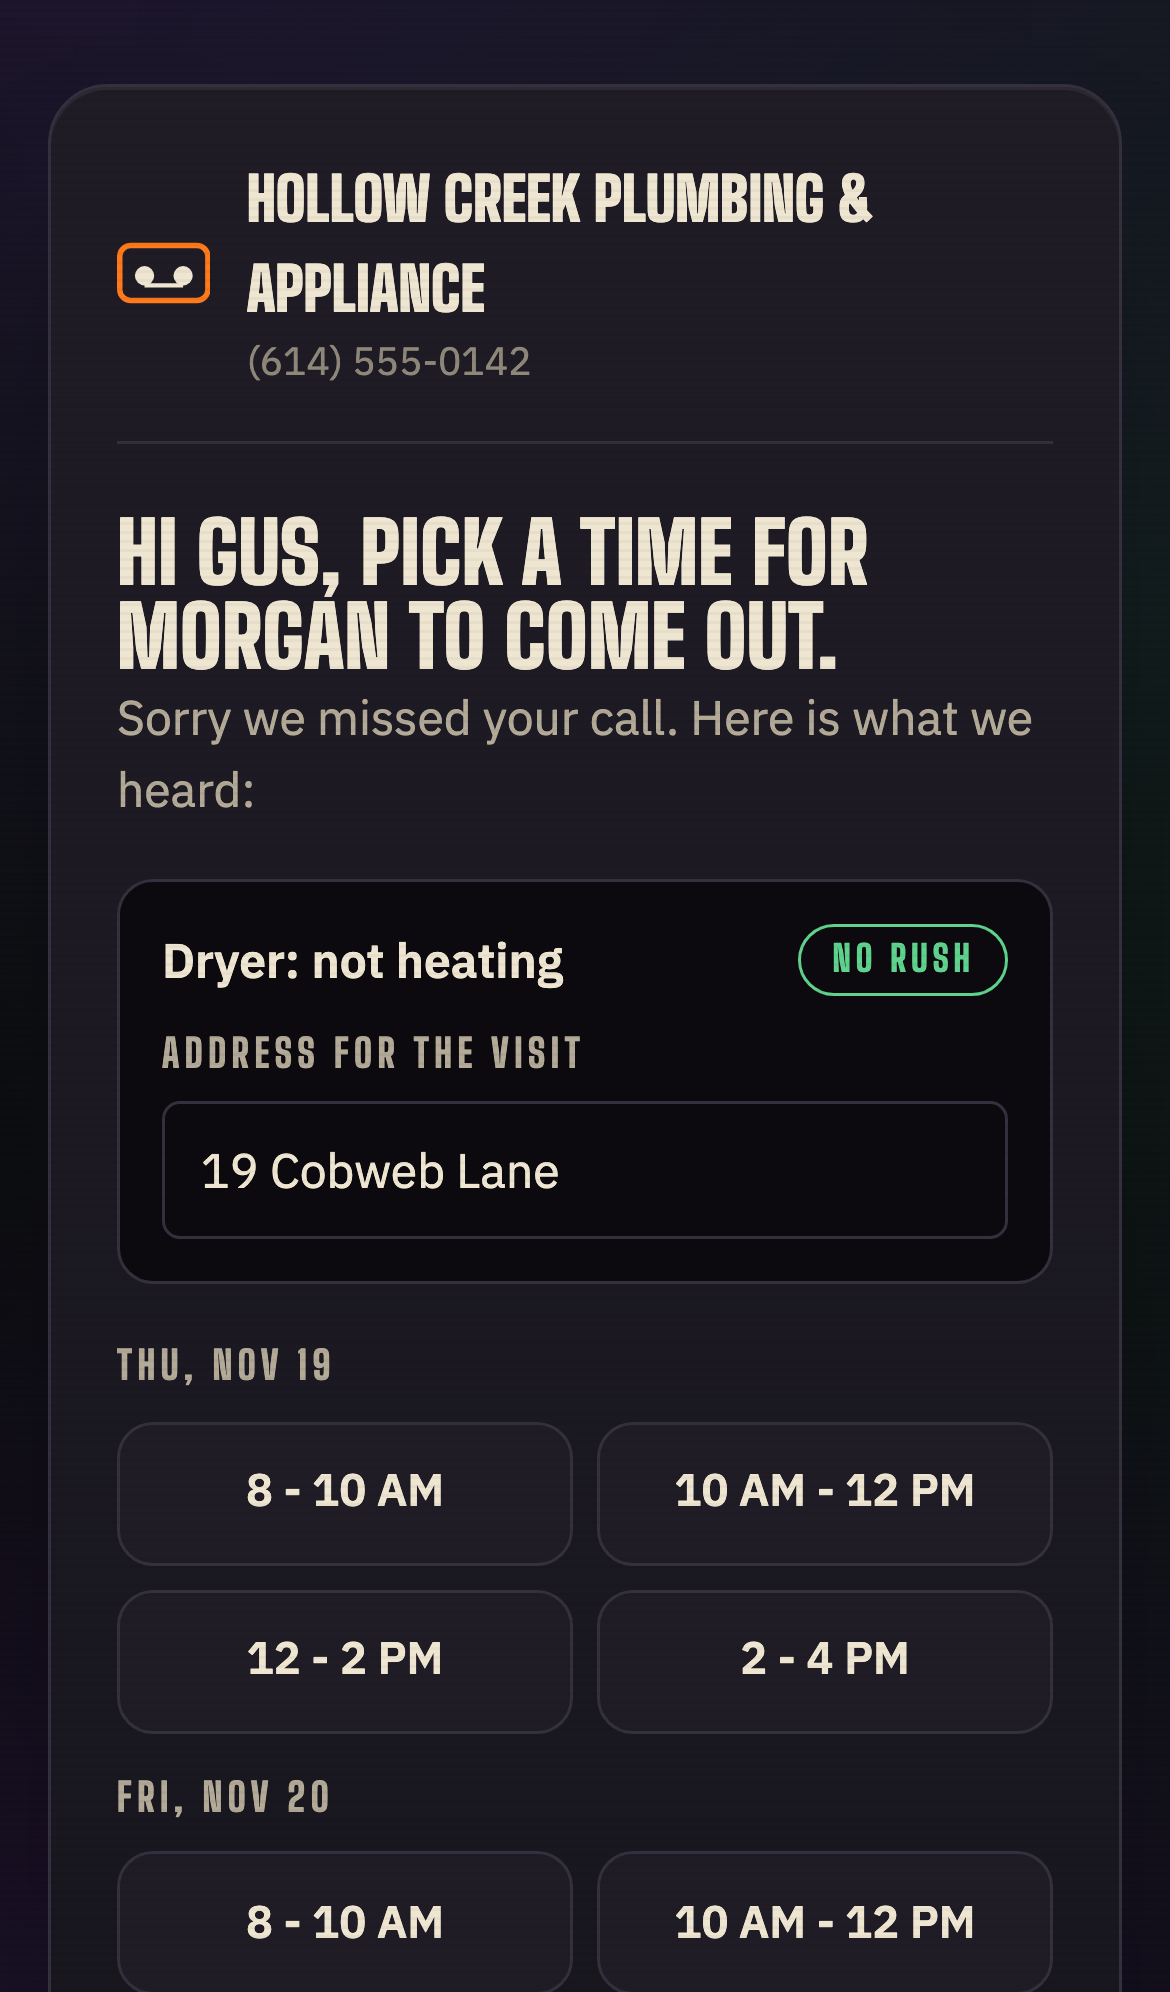
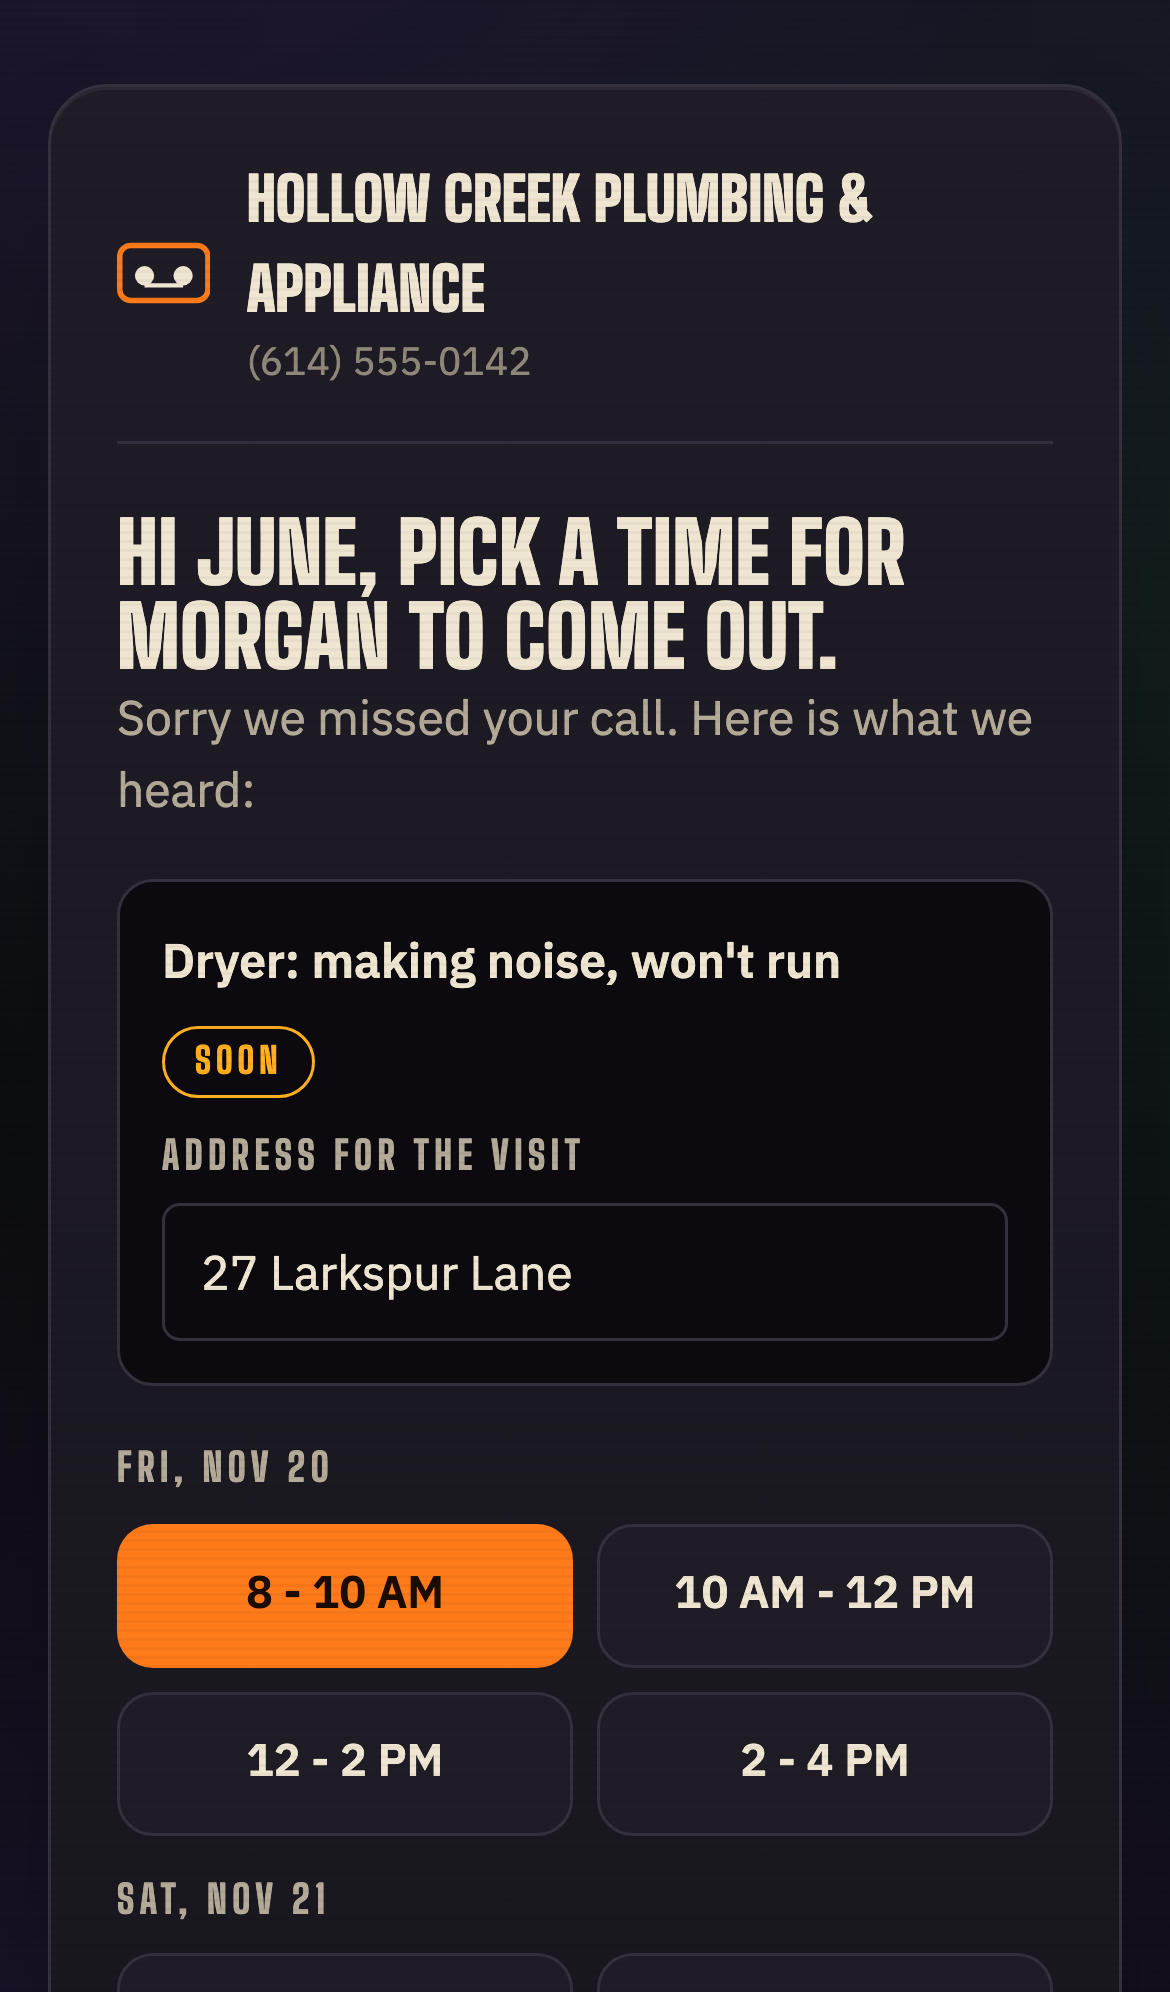
Rebuild the demo GIF and screens on the current build
The GIF now opens on the full tape, then runs the whole story with
captions: texted back in 3 seconds, June books, "$15" held at the
usual $50 with the carbon slips, sent, paid, and five hang-ups raised.
It is 1200 px wide, 23 seconds and 4.3 MB.

All eight screens are retaken with a public base URL, so texts and
links show afterbeep.example.com instead of a local address.

diff --git a/docs/judging.md b/docs/judging.md
@@ -63,5 +63,5 @@ Where to find the proof for each submission check and each judging criterion. Ev
 | Claim | Proof |
 |---|---|
 | A one-press guided demo: "Demo the whole story" runs a missed call through booking, a spoken invoice, payment and raising the dead | Landing page and machine header |
-| A 15-second GIF of the whole flow | [docs/demo.gif](demo.gif) at the top of the README |
+| A 23-second GIF of the whole flow, with captions | [docs/demo.gif](demo.gif) at the top of the README |
 | A 60-second demo script | [.kiro/steering/demo.md](../.kiro/steering/demo.md) |

diff --git a/README.md b/README.md
@@ -6,7 +6,7 @@
 
 ### The machine that hears fifteen and knows you meant fifty.
 
-![One missed call, from the beep to a sent invoice, in 15 seconds](docs/demo.gif)
+![One missed call, from the full tape to a paid invoice and five raised hang-ups, in 23 seconds](docs/demo.gif)
 
 ## Why it matters
 
